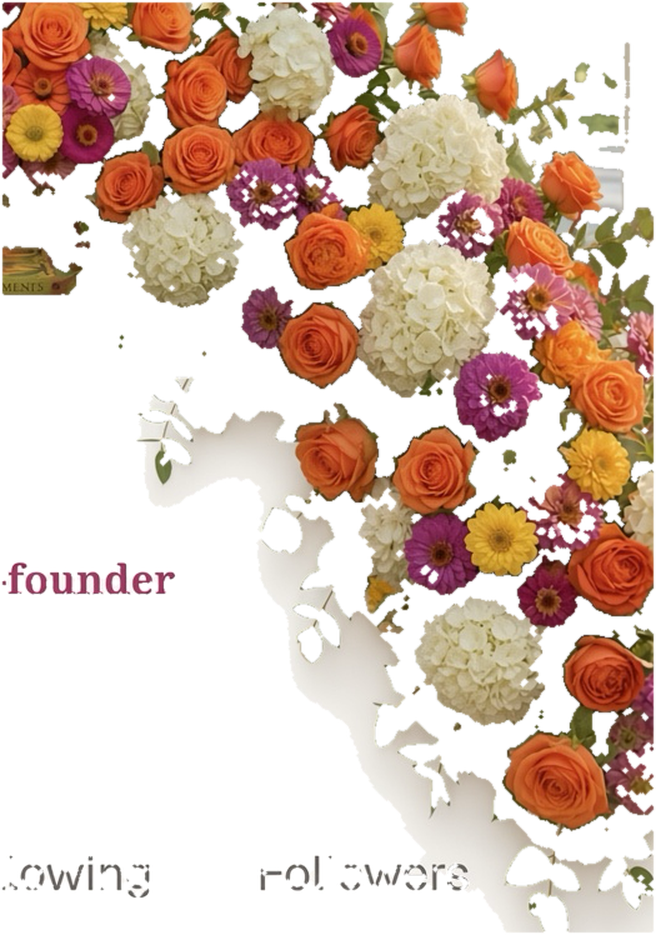
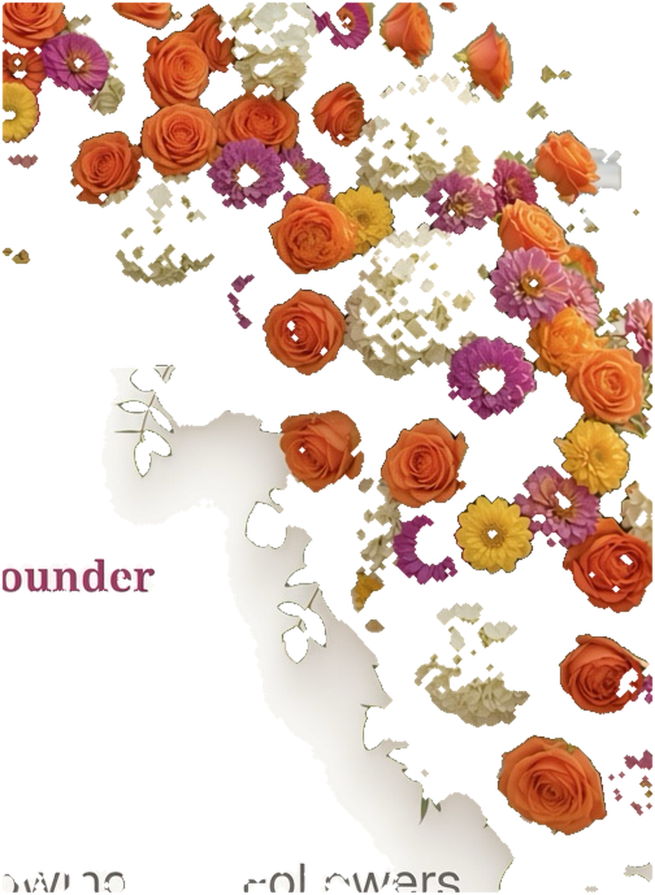
Kendall cascade flowers only

diff --git a/src/app/[username]/page.tsx b/src/app/[username]/page.tsx
@@ -1,5 +1,5 @@
 "use client";
-/* KENDALL_CASCADE_GOOD_V8 */
+/* KENDALL_FLOWERS_ONLY_V9 */
 /* JUSTIN_HENRY_ONLY_V3 */
 /* interaction-v2 */
 
@@ -729,7 +729,7 @@ export default function ProfilePage() {
           {/* @kendall.vip cascade — dense flowers from banner into profile (matches approved reference) */}
           {unameLower === "kendall.vip" && (
             <img
-              src="/kendall-cascade.png?v=8"
+              src="/kendall-cascade.png?v=9"
               alt=""
               aria-hidden
               className="pointer-events-none absolute z-[4] select-none object-contain object-right-top"
